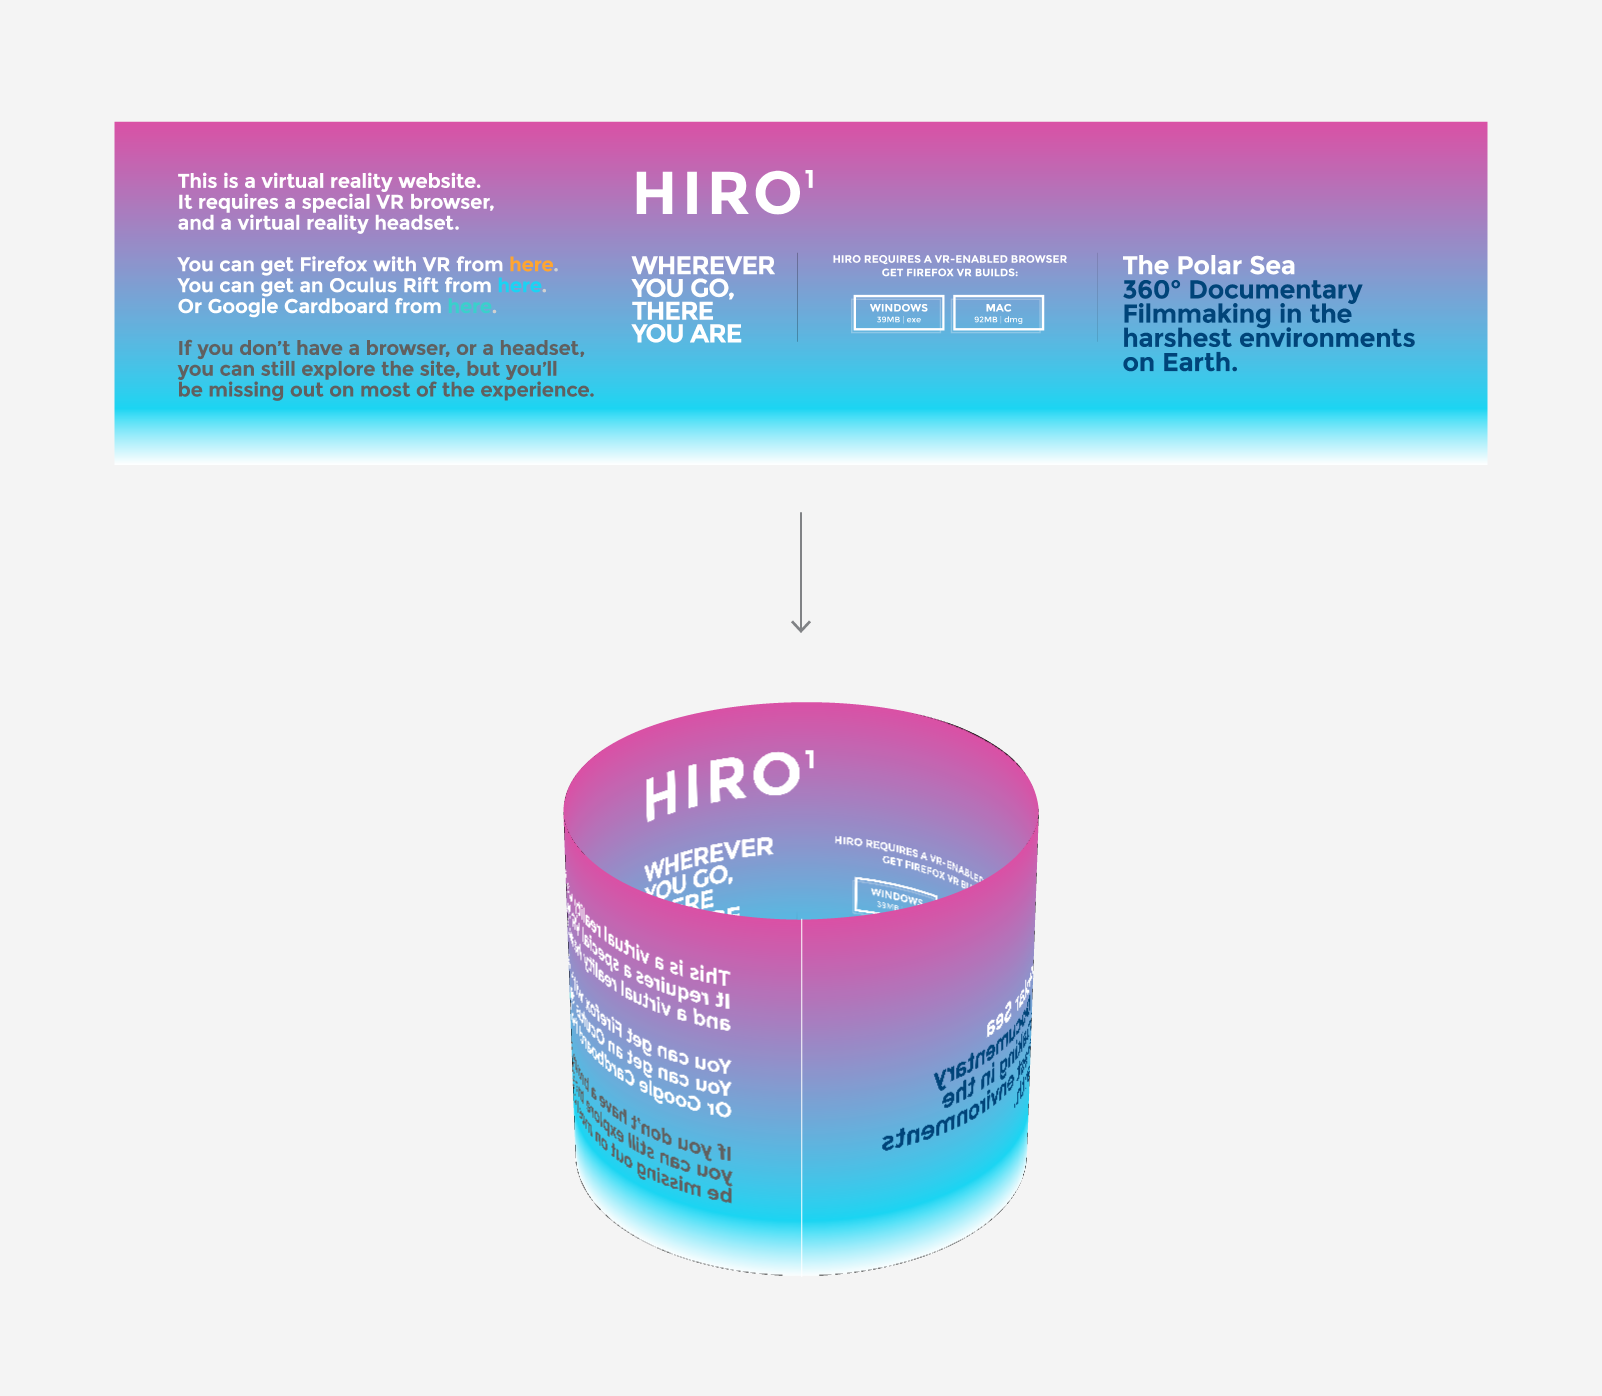
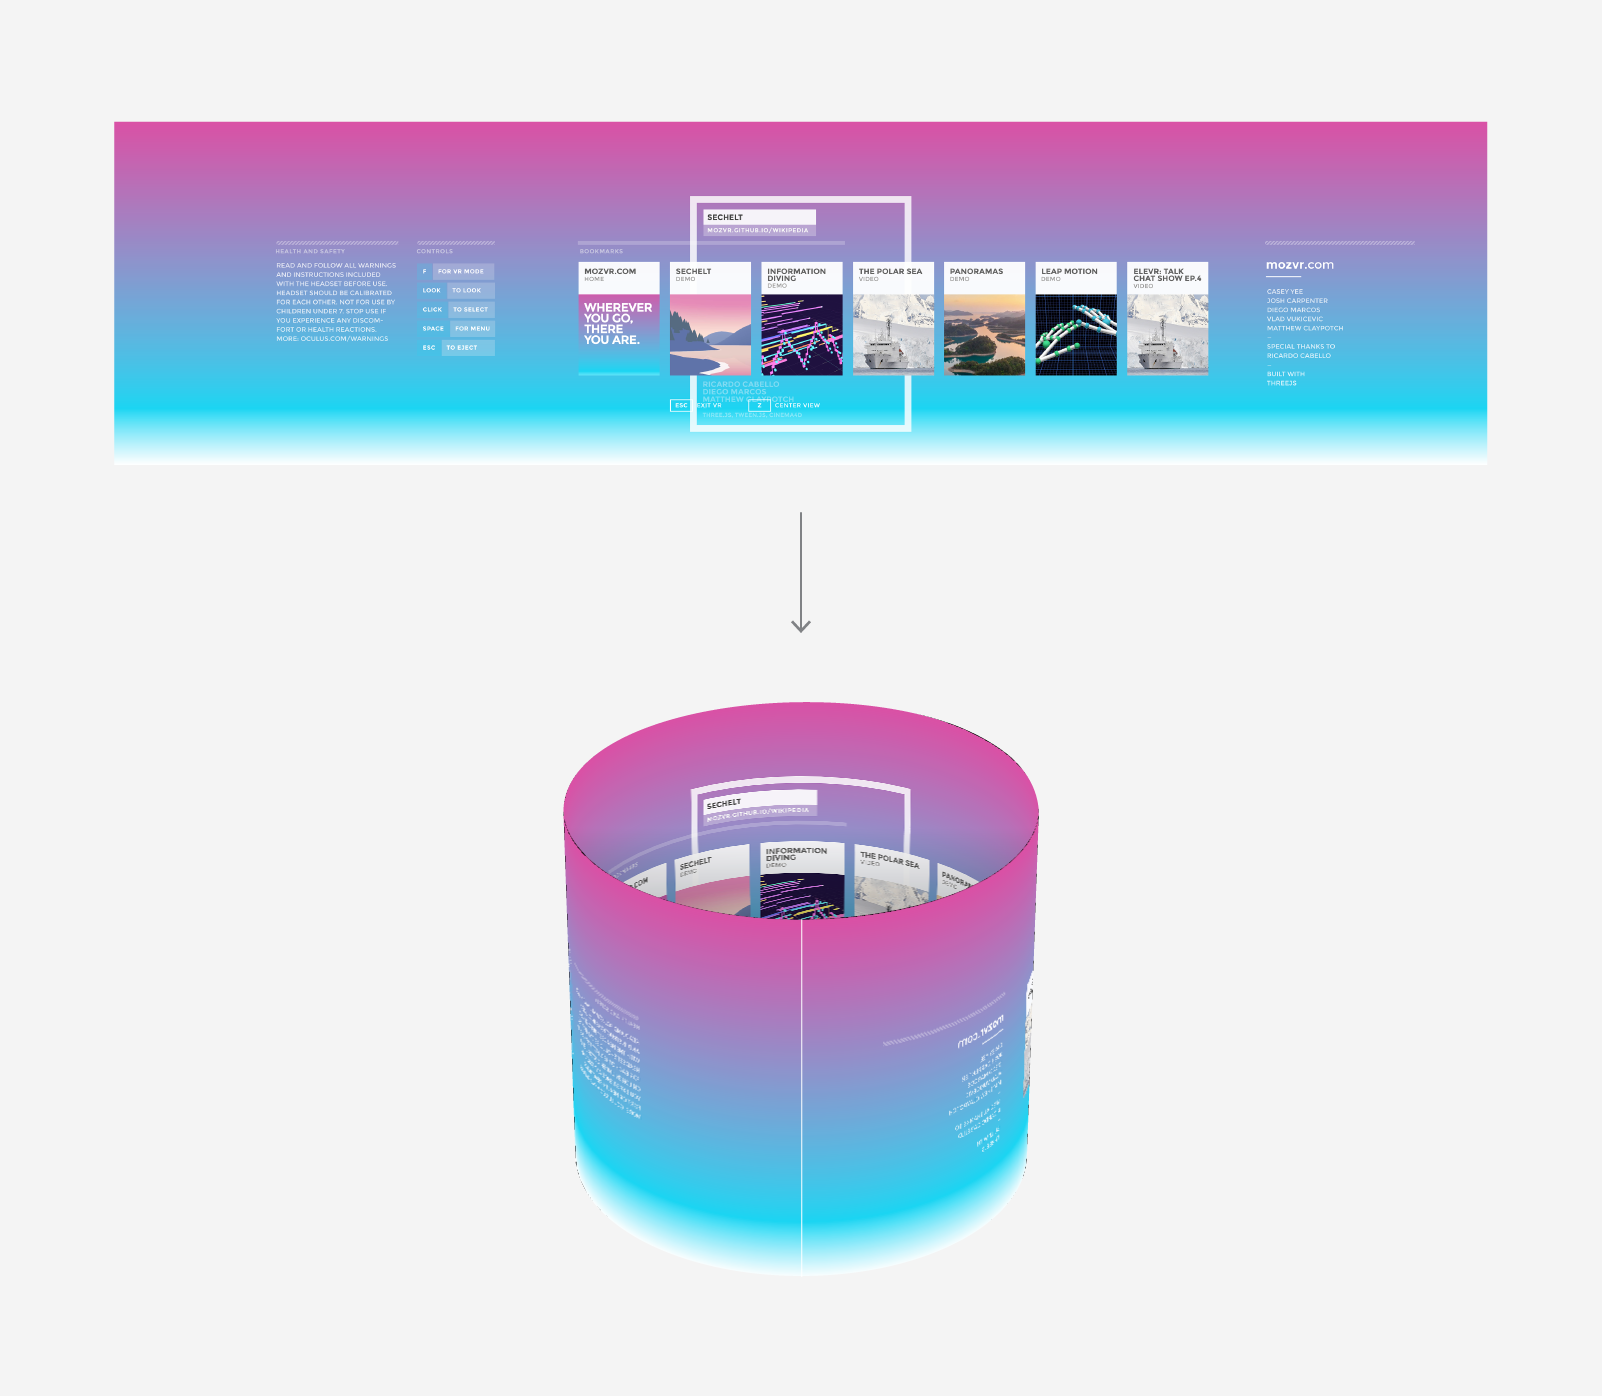
Updated 'Quick VR Mockups' post and imager

Changed region(s): [[0.0936, 0.1232, 0.8739, 0.308], [0.3433, 0.5236, 0.6242, 0.8625], [0.5618, 0.7085, 0.6554, 0.8317]]

diff --git a/templates/styles/base.scss b/templates/styles/base.scss
@@ -209,6 +209,7 @@ p {
 li {
   margin-bottom: 0.5em;
   line-height: 1.2em;
+  font-weight: 300;
 }
 
 blockquote {
@@ -241,7 +242,7 @@ figcaption {
 
 code, .code {
   font-family: 'Fira Mono', monospace;
-  font-size: 0.85em;
+  font-size: 0.9em;
   background: $gray1;
 }
 
@@ -254,62 +255,3 @@ pre code {
   padding: 1rem 1.5rem;
   white-space: pre-wrap;
 }
-
-/*
-pre {
-  font-size: 0.9em;
-  overflow: auto;
-  background: #fff;
-  border: 1px dashed #d2d2d2;
-  border-radius: 0.25em;
-  margin-bottom: 1.8em;
-  padding: 1em;
-  white-space: pre-wrap;
-}
-
-pre code {
-  display: block;
-  line-height: 1.1;
-}
-
-p code {
-  padding: 0.1em 0.3em 0.2em;
-  border-radius: 0.3em;
-  position: relative;
-  background: #fffff3;
-  white-space: nowrap;
-}
-*/
-
-
-
-/*--------- SYNTAX HIGHLIGHTING STUFF ---------*/
-
-/*
-code.lang-markdown {
-  color: #424242;
-}
-
-code.lang-markdown .header,
-code.lang-markdown .strong {
-  font-weight: bold;
-}
-
-code.lang-markdown .emphasis {
-  font-style: italic;
-}
-
-code.lang-markdown .horizontal_rule,
-code.lang-markdown .link_label,
-code.lang-markdown .code,
-code.lang-markdown .header,
-code.lang-markdown .link_url {
-  color: #555;
-}
-
-code.lang-markdown .blockquote,
-code.lang-markdown .bullet {
-  color: #bbb;
-}
-*/
-

diff --git a/contents/posts/quick-vr-prototypes/index.md b/contents/posts/quick-vr-prototypes/index.md
@@ -5,7 +5,7 @@ template: post.jade
 project-profile: sechelt
 project-link: http://mozvr.github.io/sechelt
 project-source: http://github.io/MozVR/sechelt
-splash: post-splash.png
+splash: post-splash-2.jpg
 thumb: post-thumb.png
 intro: Designing for web VR is completely unlike designing for the desktop and mobile web. Even the process of mocking up and testing an interface must be rethought. But with a few measurements and templates we can quickly create layouts in our favorite 2D design apps and test them in web VR.
 author: joshcarpenter
@@ -40,6 +40,11 @@ Working with real world units is important because sense of scale is integral to
 
 As we create our layouts, it's also important that we know where on the cylinder our elements will eventually appear. That's why a 360cm width is convenient: each centimeter on the horizontal of our composition will equal one degree on the circumference of the 3D cylinder. The center of our layout (180cm/180°) will appear directly in front of the viewer, while the left and right edges will appear behind them.
 
+<figure>
+  <img src="mockup2.png" alt="Top: our Illustrator layout. Bottom: our layout mapped ontp a WebGL cylinder.">
+</figure>
+
+
 But wait! How much of our layout will be visible to the user? Human field of view is [limited](http://xkcd.com/1080/), after all. We wouldn't want to make our users turn their heads 90° to read an important status indicator. The following diagram from Extron gives us some idea of what we have to work with.
 
 <figure>
@@ -52,10 +57,10 @@ But wait! How much of our layout will be visible to the user? Human field of vie
 To help us keep track of what our users can see, it's helpful to set up a few guides in our layout template that express these values. Most importantly, the center 60°, 30° and 10° of our vision, within which we can see color, shape and text, respectively.
 
 <figure>
-  <img src="visual-field-template.png" alt="Mockup of a 360x90cm layout template with overlays for important field of view measurements.">
+  <img src="mockup3.png" alt="Mockup of a 360x90cm layout template with overlays for important field of view measurements.">
 </figure>
 
-We also need to remember that current VR headsets have a fairly limited field of view. The DK2, for example, has an effective horizontal field of view of approximately 90°. This crops what we can see in the headset without turning our heads to the following:
+We also need to remember that current VR headsets have a fairly limited field of view. The DK2, for example, has an effective horizontal field of view of approximately 90°. This crops what we can see in the headset (without turning our heads) to the following:
 
 <figure>
   <img src="visual-field-DK2.png" alt="Diagram of Oculus Rift DK2 field of veiw. Source: Extron.">
@@ -123,7 +128,7 @@ We then create a material for our mesh:
 
 ```javascript
 /*
-Create the material that we will load our mockup into and apply to our cylinder object. We set `transparent` to true, enabling us to optionally use mockups with alpha channels. We set `side` to THREE.DoubleSide, so our material renders facing both inwards and outwards, relative to the  direction of the faces of the cylinder object). By default, materials and the faces of Three.js meshes face outwards and are invisible from the reverse. Setting THREE.DoubleSide ensures the cylinder and it's material will be visibile no matter which direction (inside or out) we are viewing it from. This step is not strictly necessary, since we are actually going to invert the faces of the object to face inwards in a later step, but it is good to be aware of the `side` material attribute and how to define it. We then load our mockup as a texture.
+Create the material that we will load our mockup into and apply to our cylinder object. We set `transparent` to true, enabling us to optionally use mockups with alpha channels. We set `side` to THREE.DoubleSide, so our material renders facing both inwards and outwards (relative to the  direction of the faces of the cylinder object). By default, materials and the faces of Three.js meshes face outwards and are invisible from the reverse. Setting THREE.DoubleSide ensures the cylinder and it's material will be visibile no matter which direction (inside or out) we are viewing it from. This step is not strictly necessary, since we are actually going to invert the faces of the object to face inwards in a later step, but it is good to be aware of the `side` material attribute and how to define it. We then load our mockup as a texture.
 */
 
 var material = new THREE.MeshBasicMaterial( { 
@@ -175,6 +180,46 @@ The [Oculus Best Practices Guide](http://static.oculus.com/sdk-downloads/documen
 
 ### 2. Add a background image
 
+By default the background of our scene is black, but it's easy to add a background image.
+
+```javascript
+/*
+To optionally add a background image to the scene, create a large sphere and apply a bitmap to it. First, create the geometry for the sphere. The SphereGeometry constructor takes several arguments, but we only need the basic three: radius, widthSegments, and heightSegments. We set radius to a big 5000 meters so the sphere is less likely to occlude other objects in our scene. We set width and height segments to 64 and 32 respectively to make it sphere surface smooth. And we then invert the geometry on the x-axis using THREE.Matrix4().makeScale(), to flip the geometry faces so they face "inwards", as we did with the mockup cylinder.
+*/
+
+var geometry = new THREE.SphereGeometry( 5000, 64, 32 );
+geometry.applyMatrix( new THREE.Matrix4().makeScale( -1, 1, 1 ) );
+
+/*
+Create the material we will load our background image into.
+*/
+
+var material = new THREE.MeshBasicMaterial( {
+  map: THREE.ImageUtils.loadTexture( 'images/background.png' )
+} );
+
+/*
+Create the mesh of our background from the geometry and material, and add it to the scene.
+*/
+
+var mesh = new THREE.Mesh( geometry, material );
+scene.add( mesh );
+
+```
+
+And that's it! When we load the scene and put on our headset, we should by standing inside our mockup layout, with a distant background image wrapping everything.
+
+Play around with different background images to find one that gives you the constrast you want. I tend to use something that approximates the look of my final 3D scene, so I can judge colors, legibility, etc. For best results use panoramic images in equirectangular format, like the following. They will map perfectly (without distortion) to the WebGL sphere:
+
+<figure>
+  <img src="puydesancy.jpg" alt="Equirectangular panorama photo of mountain top in France by Alexandre Duret-Lutz">
+  <figcaption>
+    An example of an equirectangular image, taken by Alexandre Duret-Lutz. Find more of Alexandre's beautiful panos on <a href="https://www.flickr.com/photos/gadl/" target="_blank">Flickr</a>.
+  </figcaption>
+</figure>
+
+Flickr's [Equirectangular Pool](https://www.flickr.com/groups/equirectangular/) is a fantastic source for images (just be sure to check the licenses). You can also use 3D apps to render 3D scenes into equirectangular format. I used Cinema4D + Vray to create the blurred pano used in this tutorial, for example. Or if need just a simple gradient or solud color, use your favorite image editing app to fill a canvas with 2:1 width:height proportions.
+
 
 
 ### 3. Create multiple layers at different depths
@@ -196,10 +241,8 @@ This technique enables us to bridge the workflows we know with the new world of 
 ## TODO
 
 * Update author section
-* Update splash and thumbnail
+* Update thumbnail
 * Add screenshots of progress and result to code section
-* Update layouts shown to HIRO interface
-* Add "add background image" section
 * Create assets download section
   - Firefox with VR
   - Illustrator template (save as Illustrator 8 to ensure accessibility)
